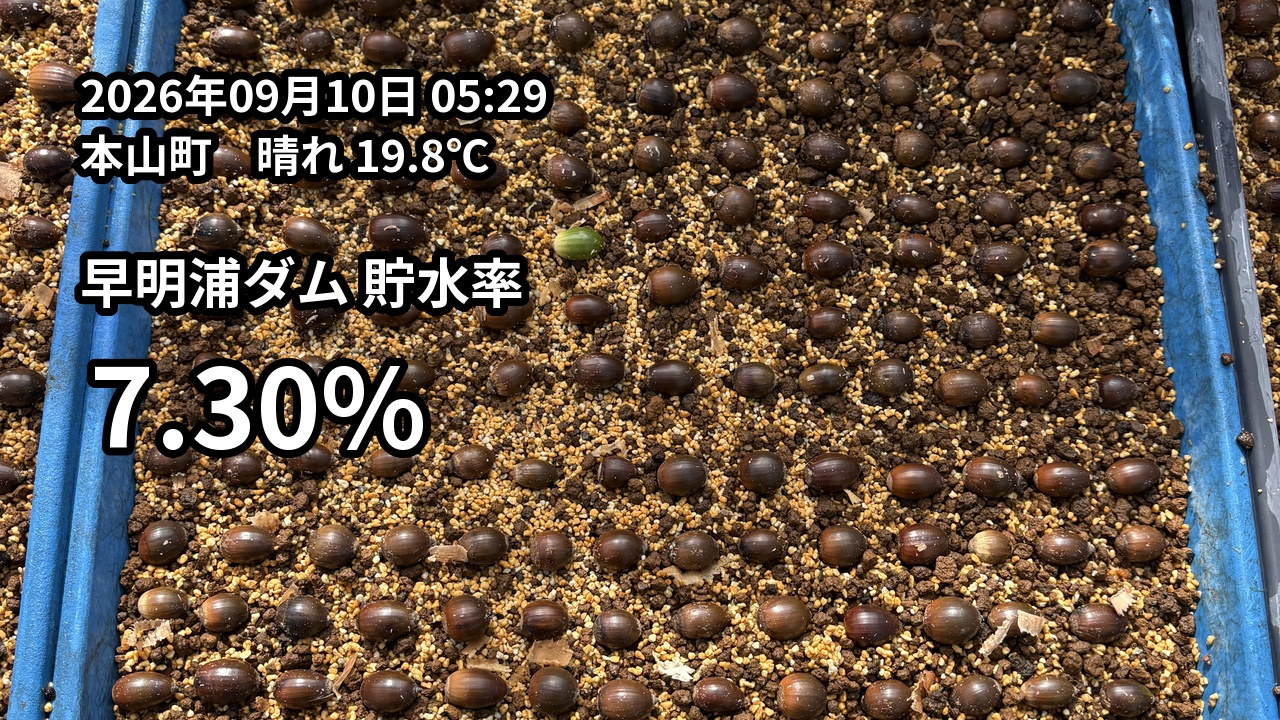
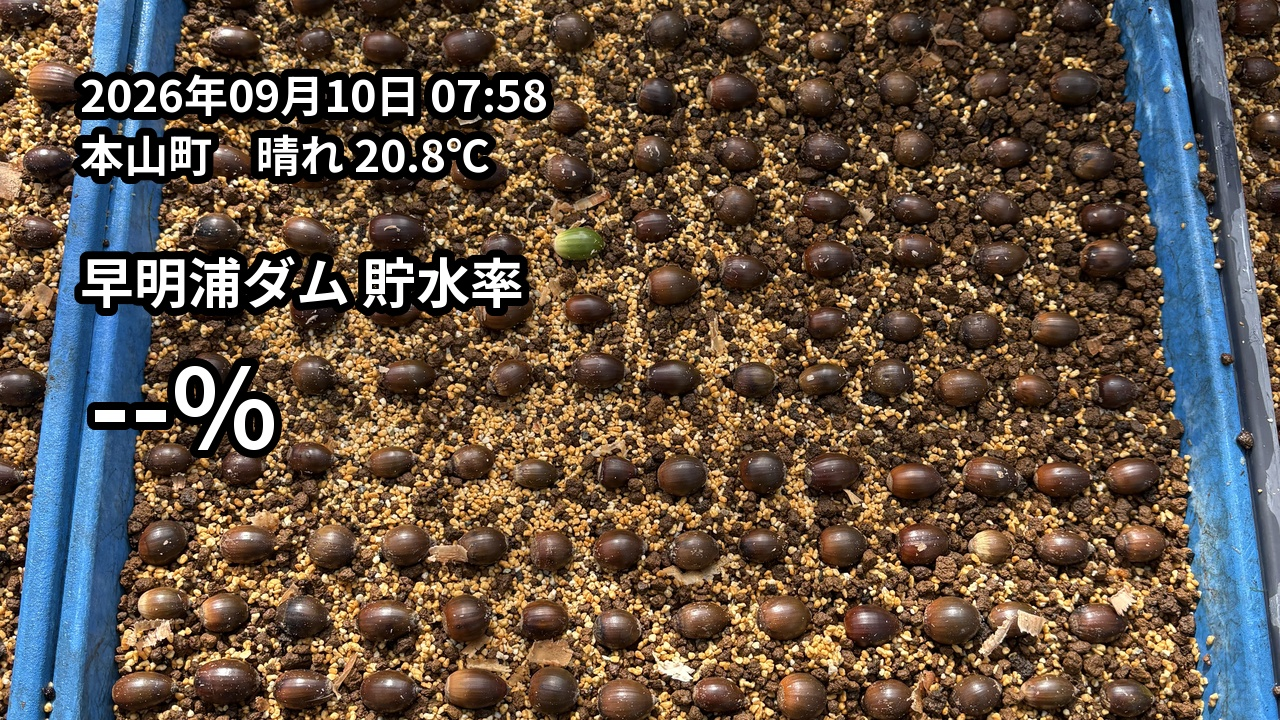
Update daily image

Changed region(s): [[0.0625, 0.4889, 0.3438, 0.6417], [0.3438, 0.0917, 0.4375, 0.1528], [0.2812, 0.1833, 0.3125, 0.2444]]

diff --git a/index.html b/index.html
@@ -10,6 +10,6 @@
   </style>
 </head>
 <body>
-  <img src="result.jpg?v=202609100529" alt="早明浦ダム 貯水率" />
+  <img src="result.jpg?v=202609100758" alt="早明浦ダム 貯水率" />
 </body>
 </html>
